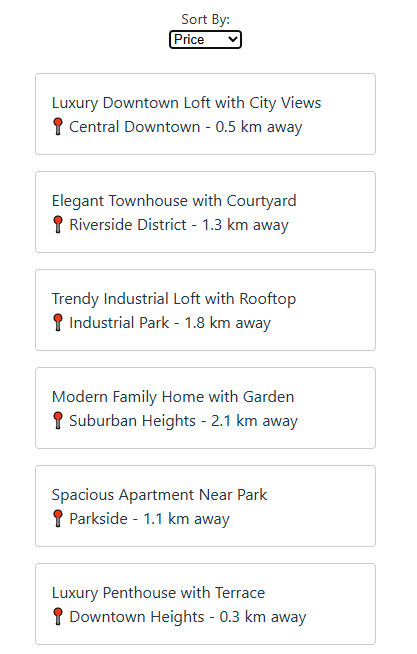
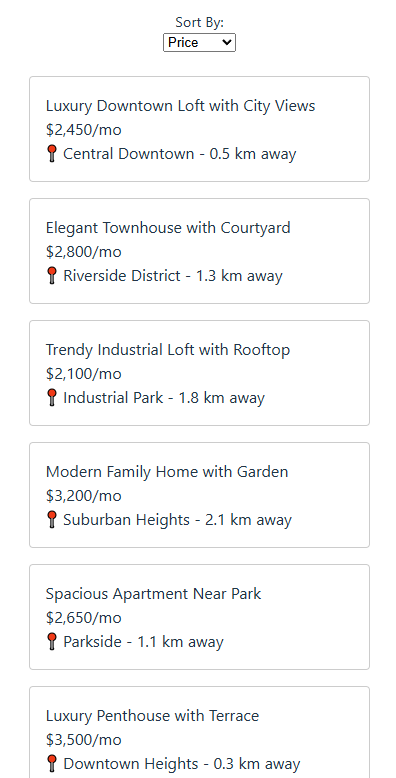
Added listing price to frontend and updated screenshots to reflect listing price

diff --git a/client/src/sections/ListingsGrid.jsx b/client/src/sections/ListingsGrid.jsx
@@ -10,9 +10,9 @@ export default function ListingsGrid({ listings }) {
       {listings.length === 0 && <p>No rentals found.</p>}
 
       {listings.map((l, idx) => {
-        const isThereRent = l?.rent ? `$${l.rent}` : "";
-        const rateOrRent =
-          l?.dailyRate != null ? `$${l.dailyRate}` : isThereRent;
+        const isThereRent = l?.rent ? `${l.rent}` : "";
+        const priceOrRent =
+          l?.price != null ? `${l.price}` : isThereRent;
 
         return (
           <div
@@ -22,7 +22,7 @@ export default function ListingsGrid({ listings }) {
             style={{ cursor: l.listingURL ? "pointer" : "default" }}
           >
             <div className="rental-title">{l.title || "Untitled"}</div>
-            <div className="rental-price">{rateOrRent}</div>
+            <div className="rental-price">{priceOrRent}</div>
             <div className="rental-location">{l.city || l.location || ""}</div>
           </div>
         );
